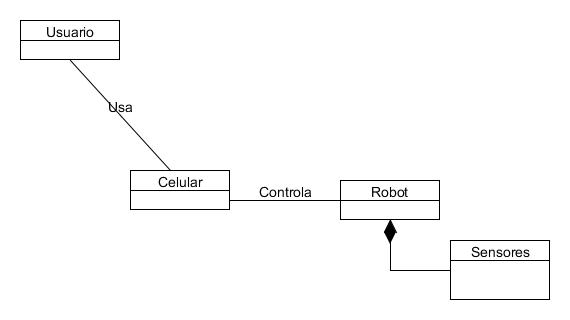
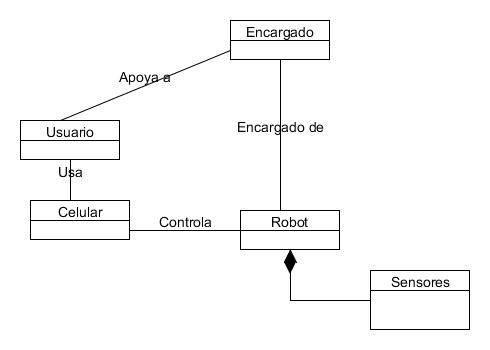
Actualizacion modelo de dominio inicial, mas descripciones de cada entidad

diff --git a/InfoRequerimiento/DescripcionModelo.tex b/InfoRequerimiento/DescripcionModelo.tex
@@ -1,0 +1,230 @@
+\documentclass[letterpaper,12pt]{article} %tipo de documento y tama~o de papel y letra
+\usepackage[latin1]{inputenc} %codificacion de caracteres
+\usepackage[spanish]{babel} %idioma
+\usepackage{fancyhdr} %tipo de pagina, LINDA biggrin.gif
+\usepackage[top=3.5cm,bottom=2.5cm,right=2cm,left=2.5cm]{geometry} %margenes
+\usepackage[rflt]{floatflt} %ni puta idea
+\usepackage{pdfpages} %incluir archivos pdf
+\usepackage{hyperref} %hipervinculos
+\hypersetup{
+  colorlinks=true,
+  urlcolor=cyan
+}
+%\usepackage{helvet} %esto es pa escribir con Arial en vez de times new roman
+%\renewcommand\familydefault{\sfdefault} %descomenta estas lineas para escribir en arial
+
+\usepackage{multirow}
+
+\usepackage{graphicx} %para usar imagenes
+%\newcommand{\imgdir}{doc-img} % para meter las imagenes en una carpeta especial, tunz en la carpeta del documento tiene q ir otra que se llame 'doc-img'
+\graphicspath{{./pic/}} %le dice que las imagenes estan en la carpeta de arriba
+
+\usepackage{amsmath} %pa usar smbolos matematicos
+\numberwithin{equation}{section} % pa usar ecuaciones de modo lindo
+\numberwithin{figure}{section} %para agregar imagenes
+\numberwithin{table}{section} %para agregar tablas
+
+\usepackage{subfigure} % pa usar sub figuras
+
+
+
+\pagestyle{fancy} %configuracion para la pagina linda
+\renewcommand{\sectionmark}[1]{\markboth{}{\thesection\ \ #1}} %cambios de comentarios
+\lhead{} %parte de arriba, izq
+\chead{} %parte de arriba, centro
+\rhead{\rightmark} %parte de arriba, derecha, le agrega la marca del capitulo
+\lfoot{} %parte de abajo, izq
+\cfoot{} %parte de abajo, centro
+\rfoot{\thepage} %parte de abajo, derecha, va el numero de la pagina
+
+
+%-------------portada---------------------------------%
+\begin{document}
+\begin{titlepage} %portada
+\thispagestyle{empty} %borrar el formato de pagina linda
+%\begin{flushleft} %alinear a la izq
+\begin{center}
+\includegraphics[scale=0.35]{logoUSM-DI.eps}
+%\vfill
+\end{center}
+%\end{flushleft}
+
+\vspace{3cm} %espacio vertical , en realidad es un enter de 2 cm
+\begin{center} %centrar
+{\Huge Requerimientos de Software \\
+ \huge Proyecto ``\emph{V.I.Pe.R.}''\\
+  \normalsize\today
+}
+\end{center}
+
+\vspace{6cm}
+
+\vfill
+\begin{flushleft} %alinear derecha
+Pre-Empresa: \emph{Phyrex}\\
+Jefe de Proyecto: Rodrigo Fr\'{\i}as\\
+Integrantes:
+\begin{table}[hb]
+  \begin{tabular}{lcc}
+    Rodrigo Fr\'{\i}as & \texttt{\small <rodrigo.frias@alumnos.usm.cl>} & [+56 9 83988257] \\
+    Celeste Bertin & \texttt{\small <celeste.bertin@alumnos.usm.cl>} &[+56 9 68410901]\\
+    Patricio Carrasco &\texttt{\small <patricio.carrascod@alumnos.usm.cl>} &[+56 9 50626689]\\
+    Rocio Fernandez &\texttt{\small <rocio.fernandezu@alumnos.usm.cl>} & [+56 9 62426549]\\
+    Juan Avalo & \texttt{\small <juan.avalo@alumnos.usm.cl>} & [+56 9 78072458]\\
+  \end{tabular}
+\end{table}
+\end{flushleft}
+\end{titlepage}
+%------------------fin de la portada --------------------%
+
+%{\bf } %escribir en negrita
+
+\setcounter{page}{1} %empezar enumerando la pagina 1
+
+\tableofcontents
+\newpage
+
+\section{Ficha de Clasificaci\'on R\'apida}
+\subsection{Objetivo del Proyecto} %140 caracteres
+\subsection{Resumen del Proyecto} %media pagina
+\subsection{Cliente}
+Nombre: Jocelyn Simmonds\\
+Cargo: \\
+E-mail: jsimmond@inf.utfsm.cl\\
+Tel\'efono: \\
+Rol o Experiencia relevante al producto:
+
+\newpage
+\section{Modelo de Dominio}
+
+\begin{figure}
+   \centering
+     \includegraphics[scale=0.5]{ModeloDominio.jpg}
+   \caption{Se puede apreciar el Modelo de Dominio relativo a \emph{V.I.Pe.R}.}
+   \label{fig:ModeloDominio}
+\end{figure}
+
+
+\begin{table}[hb!]
+  \begin{tabular}{lp{7cm}}\hline
+    Entidad & Descripci\'on \\ \hline \hline %1 linea
+    Usuario & Representa a quien va a ocupar la aplicaci\'on (Un alumno, por ejemplo). \\ \hline \hline 
+    Encargado & Es el que se encarga de mantener al robot y sacar la informaci\'on que este recolecte. \\ \hline \hline
+    Celular & Es el celular que act\'ua como ``cerebro'' del robot. \\ \hline \hline
+    Robot & Es el robot f\'isico, con las capacidades que tienen que estar almacenadas si o si en el robot. \\ \hline \hline
+    Sensores & Representan a los sensores que puede poseer el robot y que le permiten ver el mundo. \\ \hline \hline
+    & \\ \hline
+  \end{tabular}
+\end{table}
+
+\newpage
+\section{Actores y Tareas Clave}
+
+\begin{table}[hb!]
+  \begin{tabular}{lp{7cm}}\hline
+    Actor & Descripci\'on \\ \hline \hline %1 linea
+    & \\ \hline    
+  \end{tabular}
+\end{table}
+
+\begin{table}[hb!]
+  \begin{tabular}{lp{7cm}}\hline
+    Tarea Clave & Descripci\'on \\ \hline\hline %max 3 lineas
+    & \\ \hline
+  \end{tabular}
+\end{table}
+
+\newpage
+\section{Requerimientos Extra-funcionales}
+
+\begin{table}[hb!]
+  \begin{tabular}{lp{7cm}}\hline 
+    Req. Extra-funcional & Descripci\'on y medici\'on \\ \hline\hline %max 2 lineas
+    & \\ \hline
+  \end{tabular}
+\end{table}
+
+\newpage
+\section{Restricciones de Software y Hardware}
+
+A continuaci\'on se detallan las restricciones propias del Software y del Hardware, tanto en las limitantes de comunicaci\'on entre ellos, como en lo solicitado por el cliente.
+
+\begin{table}[hb!]
+  \begin{tabular}{p{3cm}p{7cm}}\hline
+    Restricci\'on & Raz\'on \\ \hline\hline %max 2 lineas
+    Sistema rob\'otico debe ser LEGO Mindstorm NXT & Herramienta para principiantes, permite mayor manipulaci\'on y dinamicidad a la construcci\'on, adem\'as de ser atractivo para el usuario.\\ \hline
+    Aplicaci\'on m\'ovil debe programarse para smartphones con OS Android & Facilidad en la disponibilidad del recurso de trabajo. \\ \hline
+    Conectividad entre mascota f\'isica y aplicaci\'on debe ser por bluetooth & Resulta de las restricciones anteriores. Es la tecnolog\'{\i}a que tienen en com\'un para comunicarse entre ellos.\\ \hline \hline
+  \end{tabular}
+\end{table}
+
+\newpage
+\section{Casos de Uso} %al menos 3 casos de uso no-triviales
+
+En la figura~\ref{fig:CasoUso}, se puede apreciar los casos de uso del proyecto, englobando algunos en un nivel de abstracci\'on alto.
+
+\begin{figure}[h!]
+   \centering
+     \includegraphics[scale=0.5]{CasoUso.jpg}
+   \caption{Es posible apreciar algunos Casos de Uso relativos al proyecto \emph{V.I.Pe.R.}.}
+   \label{fig:CasoUso}
+\end{figure}
+
+Respecto a los casos de uso no-triviales, cabe destacar tres que son necesarios para la aplicaci\'on, en distintos niveles de aplicaci\'on. Por un lado, est\'a el caso de uso ``Crear Mascota'' que hace referencia a la interacci\'on entre usuario y el smartphone con Android, y es el que se detalla en~\ref{tab:Crear}.
+
+\begin{table}[hb!]
+  \begin{tabular}{p{3cm}p{7cm}}\hline\hline
+    Nombre: & Crear Mascota. \\ \hline
+    Descripci\'on: & El usuario al utilizar la aplicaci\'on Android por primera vez, debe crear una mascota virtual, que va a ser el medio de interacci\'on entre dicho dispositivo y el robot Lego Mindstorms\\ \hline %max 5 lineas
+    Pre-condiciones: & No debe existir una mascota anteriormente.\\ \hline
+    Post-condiciones: & Mascota Virtual creada y esperando para interactuar con el usuario\\ \hline
+    Requerimienos no Funcionales: & ---\\ \hline\hline %min 0 ; max 3
+  \end{tabular}
+  \label{tab:Crear}
+\end{table}
+
+Luego, el segundo caso de uso se denomina ``Parear y Calibrar'', el que es posible observar m\'as en detalle en~\ref{tab:Parear}, y abarca el nivel de interacci\'on entre el equipo smarthphone y el robot Lego Mindstorms.
+
+\begin{table}[hb!]
+  \begin{tabular}{p{3cm}p{7cm}}\hline\hline
+    Nombre: & Parear y Calibrar. \\ \hline
+    Descripci\'on: & Es necesario poder transmitir datos desde la aplicaci\'on Android hacia el robot y viceversa, para ello es necesario poder comunicar los equipos. Adem\'as, estos deben poder funcionar correctamente en el medio en el que se encuentran.\\ \hline %max 5 lineas
+    Pre-condiciones: & Smartphone Android y Robot Lego Mindstorms no pareados (sin comunicaci\'on entre ellos).\\ \hline
+    Post-condiciones: & Smartphone Android y Robot Lego Mindstorms pareados (con comunicaci\'on entre uno y otro) y con la funcionalidad correspondiente al medio en que se encuentre el robot (fuerza de los motores seg\'un terreno, sensibilidad de sensores, etc.)\\ \hline
+    Requerimienos no Funcionales: &
+    \begin{itemize}
+    \item Disponer de al menos 3 niveles de fuerza en motores encargados de movimiento.
+    \end{itemize}\\ \hline\hline %min 0 ; max 3
+  \end{tabular}
+  \label{tab:Parear}
+\end{table}
+
+Finalmente tenemos el caso de uso ``Recolectar informaci\'on de uso'', que hace referencia al \'ambito de interacci\'on del caso~\ref{tab:Parear}, pero para un posterior uso del ``Encargado del Robot''. Este se encuentra en~\ref{tab:Recolectar}.
+
+\begin{table}[hb!]
+  \begin{tabular}{p{3cm}p{7cm}}\hline\hline
+    Nombre: & Recolectar informaci\'on de uso.\\ \hline
+    Descripci\'on: & Debido al objetivo en cuanto a difusi\'on, se hace necesario saber que tipo de futuros alumnos est\'an utilizando el sistema, y que tipo de uso se le da al mismo.\\ \hline %max 5 lineas
+    Pre-condiciones: & ``Parear y Calibrar'', Usuario interactuando con el sistema.\\ \hline
+    Post-condiciones: & Datos de uso de las funcionalidades de la aplicaci\'on.\\ \hline
+    Requerimienos no Funcionales: & ---\\ \hline\hline %min 0 ; max 3
+  \end{tabular}
+  \label{tab:Recolectar}
+\end{table}
+
+
+
+%\newpage
+%\chapter*{Anexo I - Presentaci\'on} %Copia Presentacion
+%\includepdf[pages={1-},frame=true,nup=2x3,delta=10 20,scale=0.85]{../Presentacion/diapo-1x1.pdf}
+%\newpage
+%\chapter*{Anexo II - Curr\'{\i}culum Vitae} %Curriculum
+%\includepdf[pages={1}]{../CV/cv-igo.pdf}
+%\includepdf[pages={1}]{../CV/cv-celeste.pdf}
+%\includepdf[pages={1}]{../CV/cv-pato.pdf}
+%\includepdf[pages={1}]{../CV/cv-neko.pdf}
+%\newpage
+%\chapter*{Anexo III - Otros} %Otros
+
+
+\end{document}
